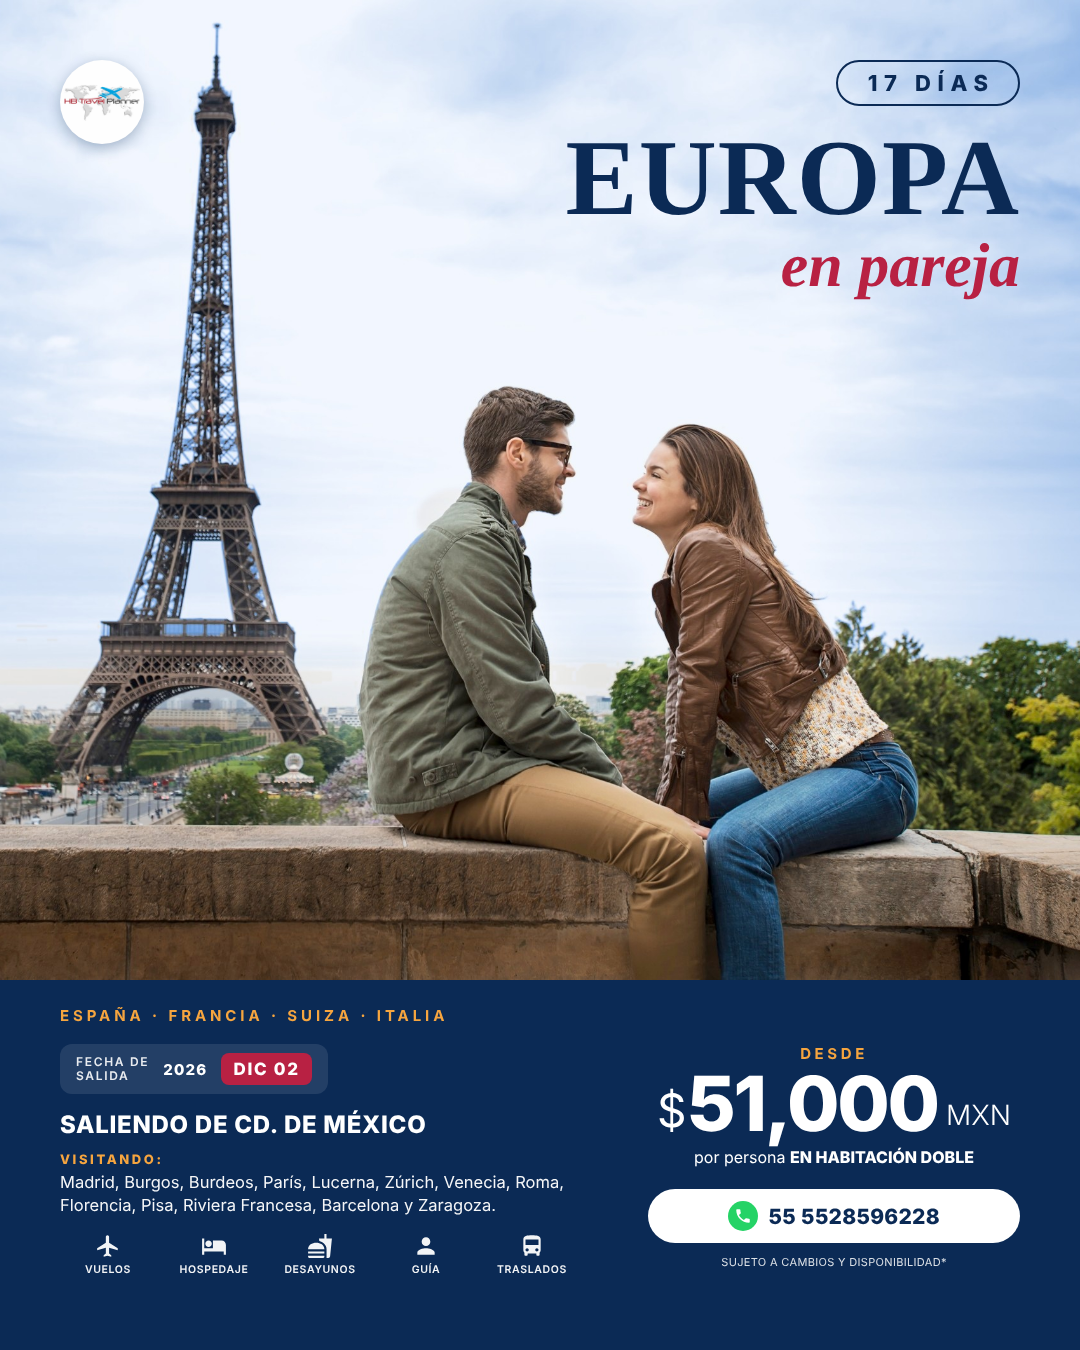
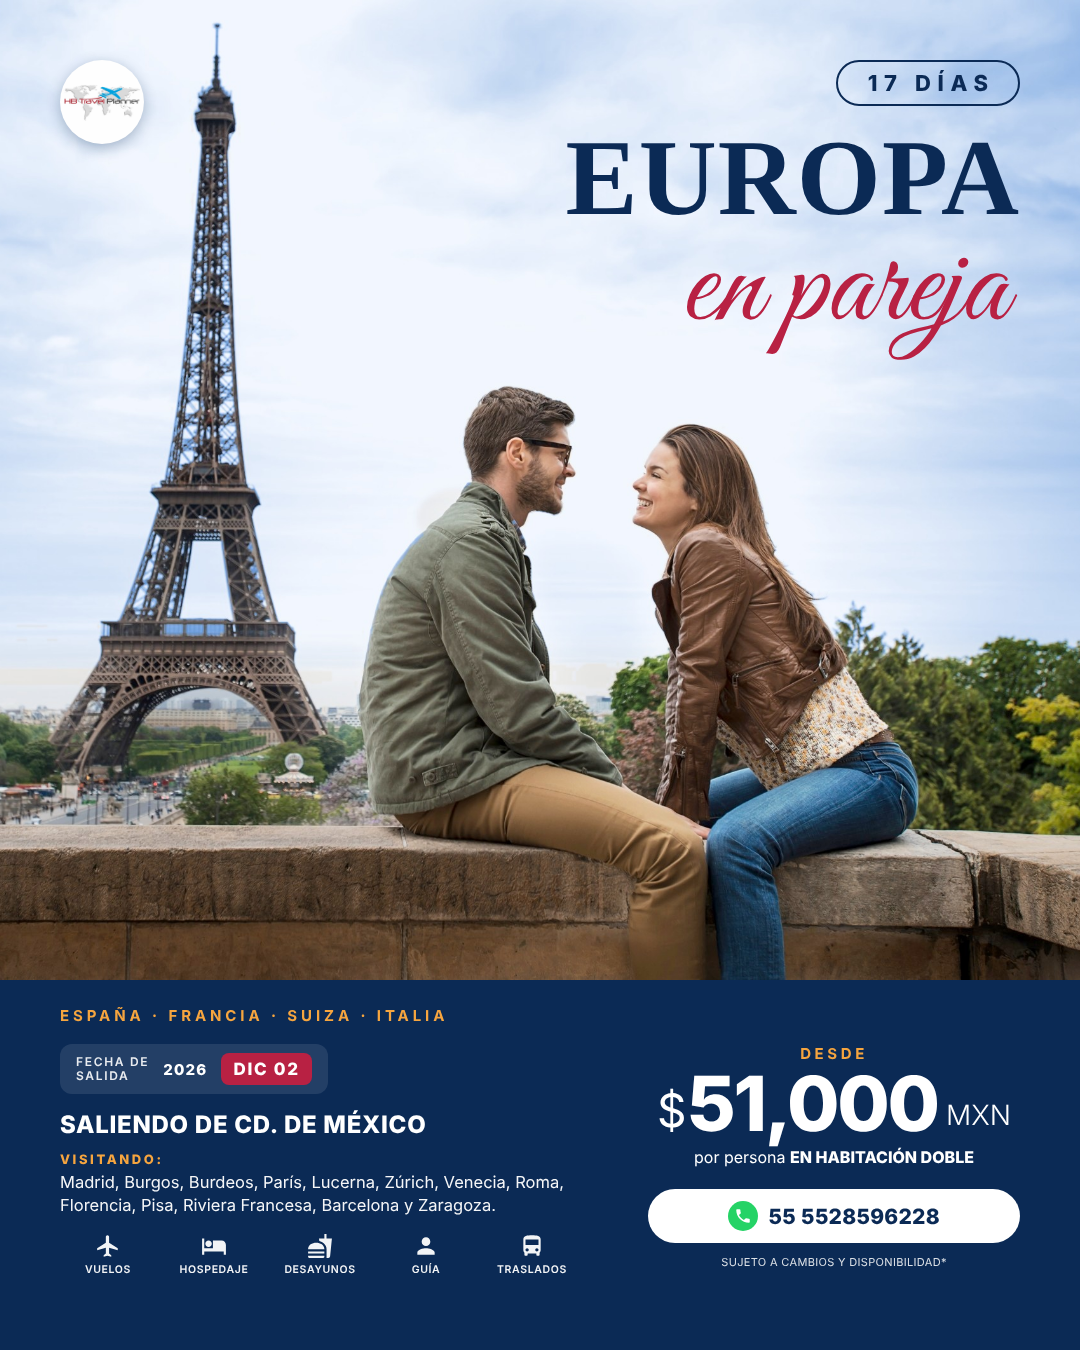
Europa en pareja (sentados): larger romantic script for 'en pareja'
Claude-Session: https://claude.ai/code/session_01KE8y3zqjDfDU485wDV3TSB

Changed region(s): [[0.6417, 0.1867, 0.9472, 0.28]]

diff --git a/flyers/europa-en-pareja-sentados-4x5.html b/flyers/europa-en-pareja-sentados-4x5.html
@@ -4,6 +4,7 @@
 <meta charset="utf-8">
 <title>Europa en pareja (sentados) 4:5 — HB Travel Planner</title>
 <style>
+  @font-face{font-family:"Great Vibes";src:url(assets/fonts/GreatVibes.woff2) format("woff2");font-weight:400;font-style:normal}
   /* márgenes de seguridad: 60 px; foto completa arriba y franja plana abajo, sin degradados */
   :root{ --m:60px; --navy:#0b2a55; --rose:#b82143; --amber:#f6a53f; --serif:'Liberation Serif','FreeSerif','Times New Roman',serif; }
   *{box-sizing:border-box;margin:0;padding:0}
@@ -18,7 +19,7 @@
   .pill{display:inline-block;border:2.5px solid var(--navy);border-radius:999px;padding:8px 30px;
     font-weight:800;font-size:22px;letter-spacing:.3em;padding-right:calc(30px - .3em)}
   .title{margin-top:18px;font-family:var(--serif);font-weight:700;font-size:108px;line-height:1;letter-spacing:.01em;text-transform:uppercase}
-  .pareja{font-family:var(--serif);font-style:italic;font-weight:700;font-size:62px;line-height:1;color:var(--rose);margin-top:2px}
+  .pareja{font-family:'Great Vibes','Liberation Serif',cursive;font-weight:400;font-size:128px;line-height:1;color:var(--rose);margin-top:-6px;margin-right:12px}
 
   /* franja de información */
   .band{position:absolute;left:0;right:0;top:980px;bottom:0;padding:26px var(--m) var(--m)}
